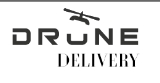
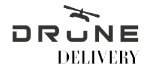
Slightly enhanced UI and button functions

diff --git a/app.js b/app.js
@@ -6,7 +6,7 @@ function loadCoords(position) {
     };
     var mapD = document.querySelector('#mapD'),
         map = new google.maps.Map(mapD, {
-            zoom: 19,
+            zoom: 18,
             center: coords
         }),
         marker = new google.maps.Marker({
@@ -49,9 +49,7 @@ function loadCoords(position) {
                 lng: coords2.lng
             }],
             distance = haversine(coords, coords2);
-        coord2Click.textContent = `·Chosen Coordenates: 0`;
         coord2Click.textContent = `·Chosen Coordenates: ${coords2.lat.toFixed(6)}, ${coords2.lng.toFixed(6)} `;
-        coord2Distance.textContent = `·Distance: 0`;
         coord2Distance.textContent = `·Distance: ${distance.toFixed(2)}m`;
         if (secondMarker !== null) {
             secondMarker.setMap(null);
@@ -91,17 +89,20 @@ function loadCoords(position) {
         lngP.textContent = `·Drone starting longitude: ` + event.latLng.lng().toFixed(6);
 
         document.getElementById("clear").onclick = function() {
-            circle.setMap(null);
-            marker.setMap(null);
-            secondMarker.setMap(null);
-            linePath.setMap(null);
             coord2Click.textContent = `·Chosen Coordenates: 0, 0`;
             coord2Distance.textcontent = `·Distance: 0m`
             latLl.textContent = `·Your latitude: 0`;
             lngLl.textContent = `·Your longitude: 0`;
             accLl.textContent = `·Accuracy: 0` + `m`;
+            circle.setMap(null);
+            marker.setMap(null);
+            secondMarker.setMap(null);
+            linePath.setMap(null);
         };
         document.getElementById("recharge").onclick = function() {
+            latLl.textContent = `·Your latitude: ${coords.lat.toFixed(6)}`;
+            lngLl.textContent = `·Your longitude: ${coords.lng.toFixed(6)}`;
+            accLl.textContent = `·Accuracy: ${coords.acc.toFixed(2)}` + `m`;
             marker = new google.maps.Marker({
                     position: coords,
                     map: map

diff --git a/index.html b/index.html
@@ -10,19 +10,21 @@
     <script src="https://maps.googleapis.com/maps/api/js?key=AIzaSyDGVT2K8Qye-nVvqwr-bXsQUYvGLjYeFmA&callback=getCoords" defer async></script>
     <!-- Main JavaScript file -->
     <script src="app.js" defer async></script>
-    <img src="./drone.jpg" class="banner" />
+    <div>
+        <img src="./drone.jpg" class="banner" />
+    </div>
+
 
     <div id="mapD">
 
     </div>
-    <p id="latLl">
-    </p>
-    <p id="lngLl">
-    </p>
-    <p id="accLl">
-    </p>
-    <div>
-
+    <div class="coordText">
+        <p id="latLl">
+        </p>
+        <p id="lngLl">
+        </p>
+        <p id="accLl">
+        </p>
         <p id="latP">
         </p>
         <p id="lngP">
@@ -30,7 +32,6 @@
         <p id="coord2Click">
         </p>
         <p id="coord2Distance">
-
         </p>
         <button id="clear">Clear map</button>
         <button id="recharge">Load Again</button>

diff --git a/style.css b/style.css
@@ -7,5 +7,9 @@ html, body {
   height : 500px;
 }
 .banner{
-  padding-left: 400px;
+  margin: auto;
+  display: block;
+}
+.coordText{
+  text-align: center;
 }
